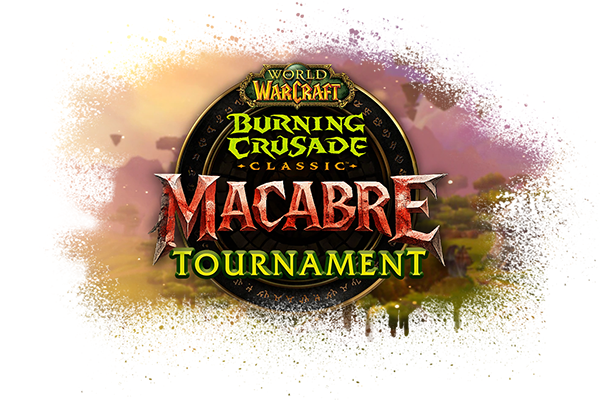
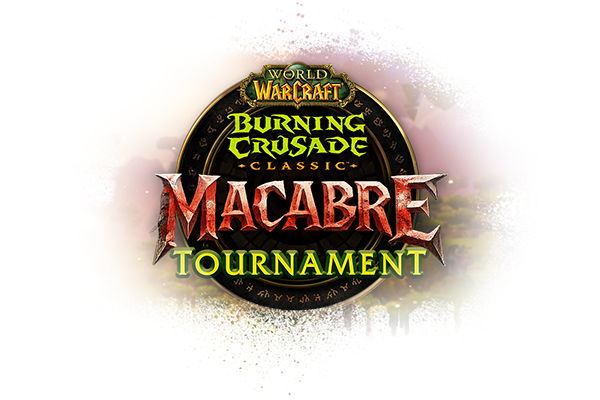
Changes

diff --git a/index.html b/index.html
@@ -4,12 +4,13 @@
     <meta charset="UTF-8">
     <meta name="viewport" content="width=device-width, initial-scale=1.0">
     <title>Macabre PVP tournament</title>
-    <link rel="stylesheet" href="https://mezanddav.github.io/macabre.github.io/style.css">
-    <!-- <link rel="stylesheet" href="file:///D:/wow/macabre/style.css"> -->
+    <!-- <link rel="stylesheet" href="https://mezanddav.github.io/macabre.github.io/style.css"> -->
+    <link rel="stylesheet" href="file:///D:/wow/macabre/style.css">
+     <link rel="icon" type="image/x-icon" href="https://mezanddav.github.io/macabre.github.io/img/favicon.png">
 </head>
 <body class="bg-[#180f01] bg-no-repeat bg-top" style="background-image:url('https://mezanddav.github.io/macabre.github.io/img/bg-wow2.png');">
     <div class="mb-12 text-center">
-        <!-- <img class="inline-block" src="https://mezanddav.github.io/macabre.github.io/img/tournament.png" alt="Macabre PVP tournament"> -->
+        <img class="inline-block" src="https://mezanddav.github.io/macabre.github.io/img/tournament.png?v=2" alt="Macabre PVP tournament">
     </div>
 </body>
 </html>
